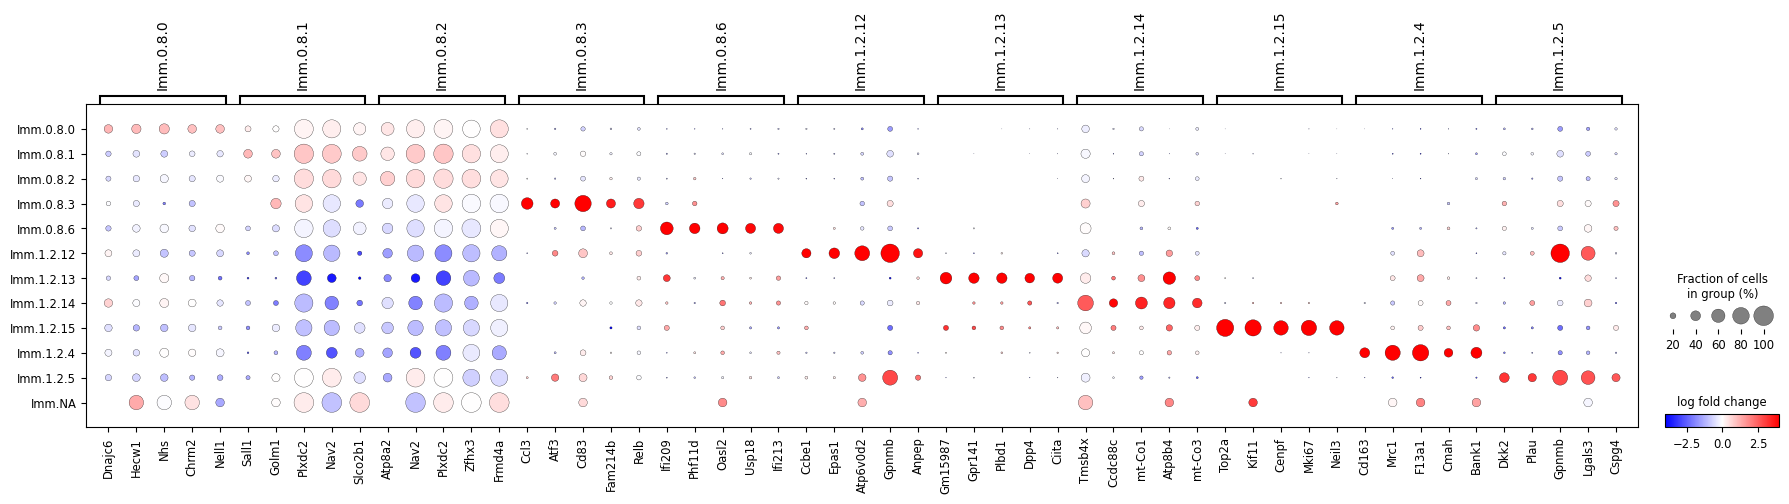
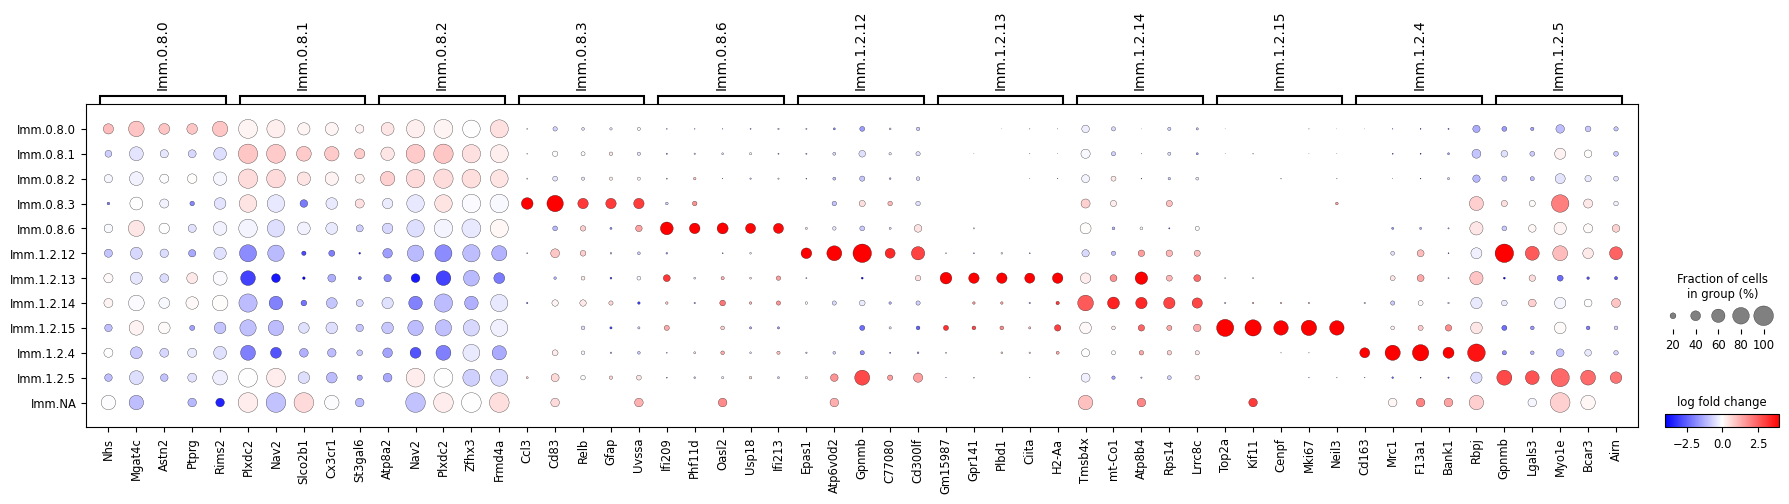
final week3

diff --git a/src/new_immune.py b/src/new_immune.py
@@ -43,7 +43,7 @@ def extract_dge_data(adata):
 
 
 # Step 3: Create cluster dataframes with filtered data
-def create_cluster_dfs(gene_names, logfoldchanges, pvals_adj, scores, pts, sort_by_logfc=True, pts_threshold=0.5):
+def create_cluster_dfs(gene_names, logfoldchanges, pvals_adj, scores, pts, sort_by_logfc=False, pts_threshold=0):
     """
     Create a dictionary of dataframes per cluster, with filtered and optionally sorted genes.
 
@@ -215,51 +215,6 @@ def select_top_genes(cluster_dfs):
 
     return top_genes_cluster
 
-# def select_top_genes(cluster_dfs):
-#     """
-#     Select the top 5 genes for each cluster, replacing genes with negative log fold change.
-
-#     Parameters:
-#     cluster_dfs (dict): Dictionary containing dataframes of each cluster.
-
-#     Returns:
-#     dict: Dictionary containing the top 5 genes per cluster.
-#     """
-#     top_genes_cluster = {}
-
-#     for cluster, df in cluster_dfs.items():
-#         mask_pval = df['pvals_adj'] < 0.05  # Filter by p-value
-#         filtered_df = df[mask_pval]
-#         top_genes = filtered_df.head(5)
-
-#         if (top_genes['logfoldchange'] < 0).any():  # Check for negative log fold changes
-#             num_nega_lfc = (top_genes['logfoldchange'] < 0).sum()
-#             pos_lfc = df.head(num_nega_lfc)
-
-#             mask1 = top_genes['logfoldchange'] > 0
-#             top_genes_positive = top_genes[mask1]
-
-#             replacements = []
-#             for gene, values in df.iterrows():
-#                 if gene not in top_genes_positive.index:
-#                     replacements.append(values)
-
-#                 if len(replacements) == num_nega_lfc:
-#                     break  # Stop once we have enough replacement genes
-
-#             replacements_df = pd.DataFrame(replacements)
-
-#             combined_top_genes = pd.concat([top_genes_positive, replacements_df])
-#             top_genes_cluster[cluster] = combined_top_genes
-
-#         elif top_genes.empty:
-#             top_genes_new = df.head(5)
-#             top_genes_cluster[cluster] = top_genes_new
-
-#         else:
-#             top_genes_cluster[cluster] = top_genes
-
-#     return top_genes_cluster
 
 # Step 6: Collect top gene names for each cluster
 def top_gene_names(top_genes_cluster):
@@ -328,7 +283,7 @@ if __name__ == "__main__":
     gene_names, logfoldchanges, pvals_adj, scores, pts = extract_dge_data(adata)
     
     # Create cluster DataFrames
-    cluster_dfs = create_cluster_dfs(gene_names, logfoldchanges, pvals_adj, scores, pts, sort_by_logfc=True, pts_threshold=0.3)    
+    cluster_dfs = create_cluster_dfs(gene_names, logfoldchanges, pvals_adj, scores, pts, sort_by_logfc=True, pts_threshold=0.4)    
     
     # Remove NA clusters
     cluster_dfs = remove_clusters_by_suffix(cluster_dfs, "NA")
